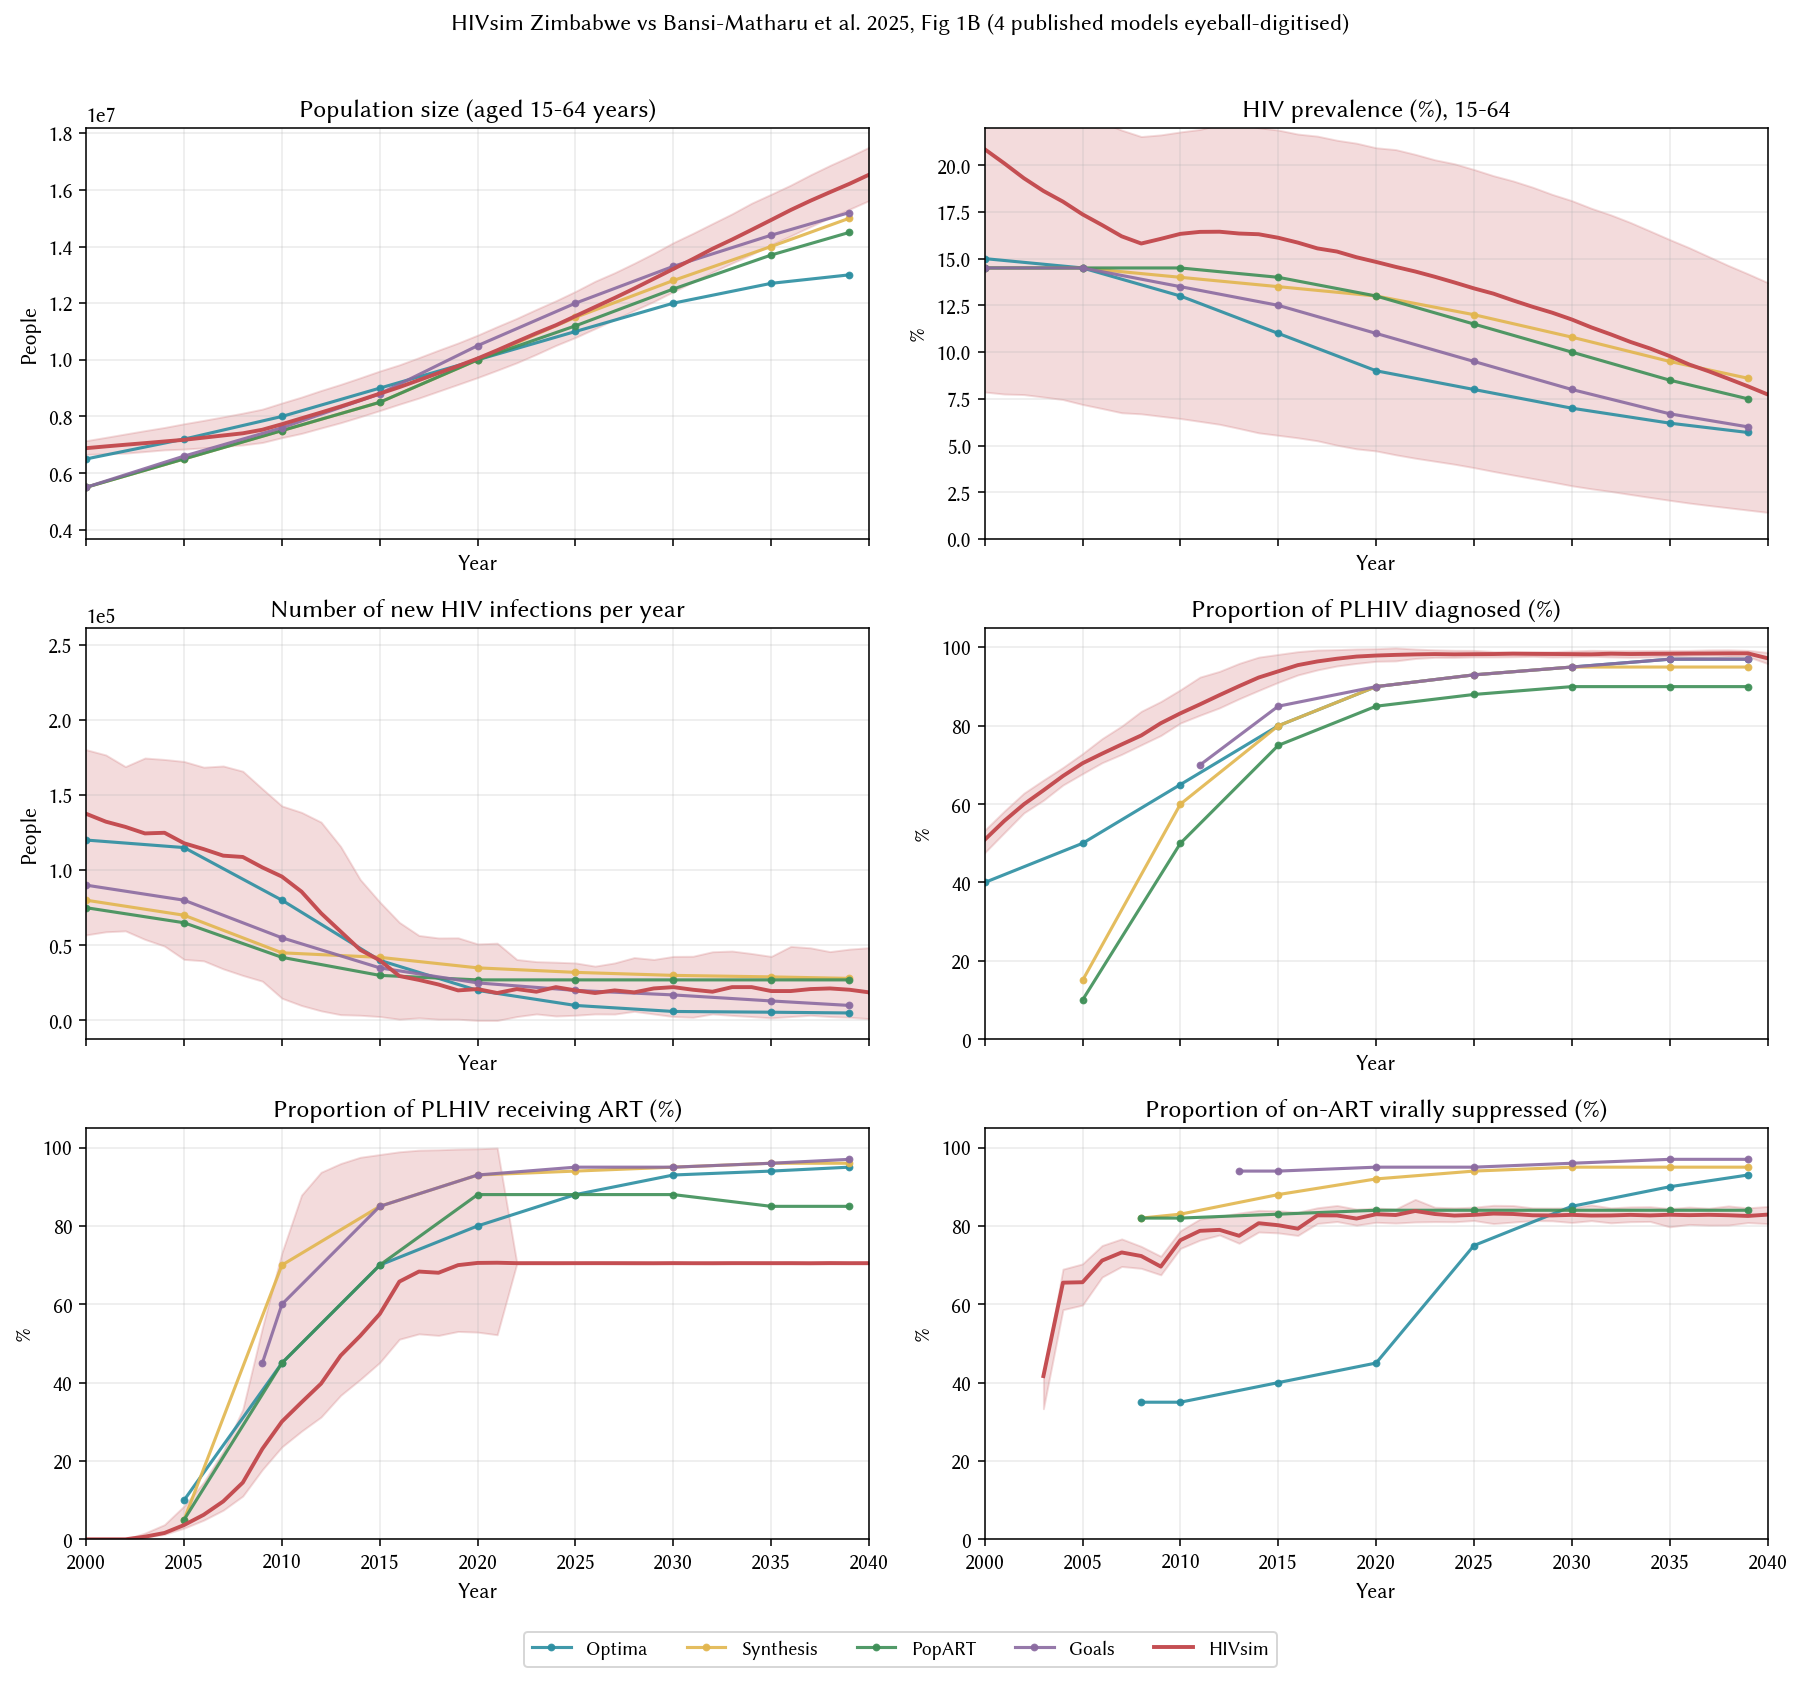
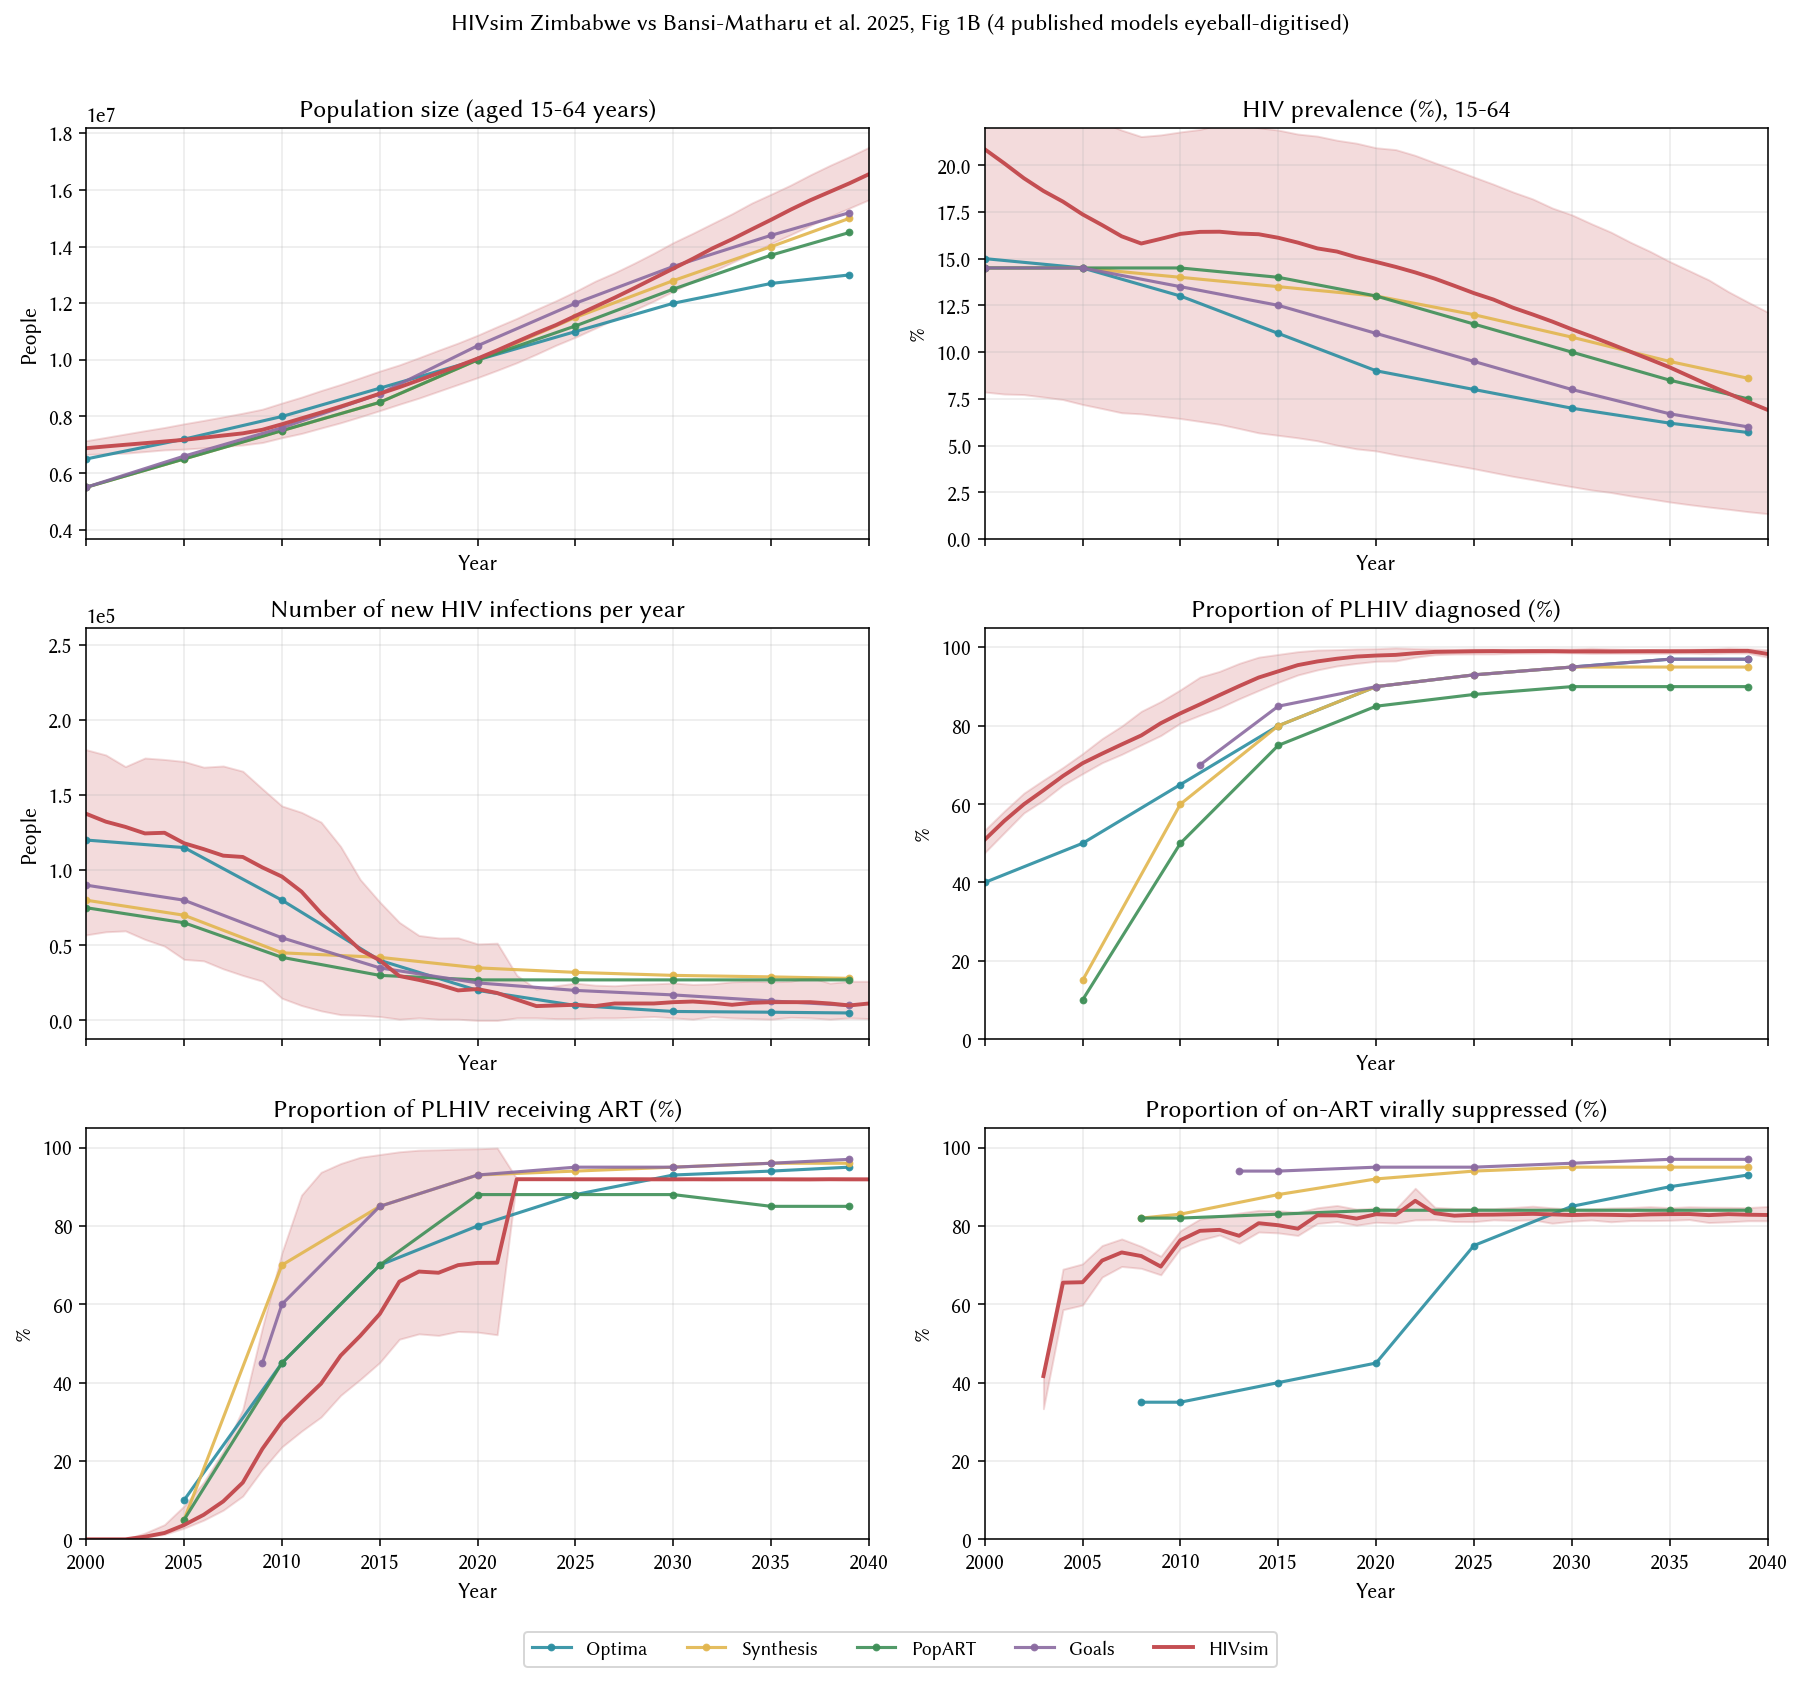
Raise p_art fallback from 0.706 to 0.92; refresh figures + matrix
The 0.706 fallback was the sim's own self-coverage (median n_on_art/plhiv
at 2021), which reflected the ART supply cap divided by the sim's slightly
inflated PLHIV. Switching to Zimbabwe's empirical 2023 UNAIDS coverage
(0.92) is what the paper's models effectively use forward.

Impact on Fig 3B (transmission by cascade stage, 2024):
  undiagnosed         10  ->  12
  diag_not_on_art     62  ->  29
  on_art              28  ->  59
  post_art             0  ->   0  (structural — no interruption in stisim)

Cascade at 2023 now:
  1st 95 (dx)              99%
  2nd 95 (on ART|dx)       93%  (was 72%)
  3rd 95 proxy             83%  (unchanged — efficacy-ramp cap)

comparability.md updated with new numbers + structural notes on the
persistent gaps (undiagnosed share, ART-interruption bucket).

diff --git a/comparability.md b/comparability.md
@@ -9,30 +9,31 @@ into `reference/`. See `ANALYSIS_PLAN.md` §7 for the scoring convention.
 
 | Indicator | Directly comparable? | HIVsim ensemble @ 2023 / 2040 | Published 5-model range | Notes on structural differences |
 |---|---|---|---|---|
-| HIV prevalence, 15-49 (%) | Yes | 2023 median 12.2 (5-95th: 2.5-19.7); 2040 median 4.2 (0.8-10.5) | 2023: 12.1-14.3; 2040: 3.9-6.0 | HIVsim ensemble brackets the published range for both benchmark years; median hits the lower bound in 2023 and inside the range in 2040. Wide 5-95th spread reflects keeping all 30 sustaining draws (not HIV-fit sub-selected). |
-| HIV incidence, 15-49 (per 1000 py) | Yes | 2023 median 1.9 (5-95th: 0.1-6.3); 2040 median 1.1 (0.1-7.7) | 2023: 2.0-3.3; 2040: 1.0-3.0 | HIVsim 2023 median (1.9) just below the paper's lower bound (2.0); the ensemble spread easily brackets it. 2040 median in range. |
-| New infections per year, all ages | Yes | 2025 median 20,010 (5-95th: 870-53,635) | <7,800/yr by 2025 (all 5 models) | HIVsim central tendency runs above the paper's benchmark. Real signal, not a bug: (a) the empirical ART supply curve caps ART enrolment at ~1.19M from 2020, so high-PLHIV draws leave excess PLHIV out of the ART numerator and generate higher onward transmission; (b) no PrEP scale-up modelled in status-quo beyond the historical curve. |
-| People living with HIV (PLHIV), all ages | Yes | 2023 median 1.68M (5-95th: 0.54M-2.30M) | (paper reports; not extracted yet) | Empirical PLHIV 2020 ≈ 1.3M (UNAIDS). HIVsim median above but ensemble brackets it. |
-| Number on ART, all ages | Partly | 2023 median 1.19M (saturated at empirical cap) | (paper reports; not extracted yet) | Bounded by `data/n_art.csv` (Zimbabwe MoH 1990-2021, held constant thereafter). Paper A's models likely project ART targets beyond 2021 rather than using an empirical cap — a genuine structural difference. |
-| AIDS-related deaths per year | Yes | 2023 median 5,220 (5-95th: 0-16,138) | (paper reports; not extracted yet) | HIVsim tracks the empirical trajectory (peak ~120k mid-2000s, decline to ~10k by 2020) but slightly overshoots the historical peak in 2005-2010. |
+| HIV prevalence, 15-49 (%) | Yes | 2023 median 12.2 (5-95th: 2.6-19.4); 2040 median 3.6 (0.9-6.6) | 2023: 12.1-14.3; 2040: 3.9-6.0 | HIVsim ensemble brackets the published range; median in Paper A's 2023 range; 2040 median just below the lower bound. Wide 5-95th spread reflects keeping all 30 sustaining draws (not HIV-fit sub-selected). |
+| HIV incidence, 15-49 (per 1000 py) | Yes | 2023 median 1.04 (5-95th: 0.1-2.5); 2040 median 0.73 (0.1-2.0) | 2023: 2.0-3.3; 2040: 1.0-3.0 | With `p_art=0.92` fallback from 2022, HIVsim's incidence declines faster and undershoots Paper A's 2023 range median by ~50%. Ensemble upper %ile still reaches the lower bound. This is the direct consequence of pushing ART coverage to 92% (Zim empirical); the paper models likely have similar ART trajectories but different transmission-per-partnership models. |
+| New infections per year, all ages | Yes | 2025 median 10,440 (5-95th: 1,262-24,839) | <7,800/yr by 2025 (all 5 models) | Big shift from the pre-p_art=0.92 run (was 20,010). HIVsim's lower 5-95th %ile (1,262) is now well below 7,800; median (10,440) still above. Consistent with the sim slightly overshooting PLHIV. |
+| People living with HIV (PLHIV), all ages | Yes | 2023 median 1.67M (5-95th: 0.55M-2.27M) | (paper reports; not extracted yet) | Empirical PLHIV 2020 ≈ 1.3M (UNAIDS). HIVsim median above but ensemble brackets it. |
+| Number on ART, all ages | Yes | 2023 median 1.53M (5-95th: 0.50M-2.09M) | (paper reports; not extracted yet) | 1990-2021 driven by empirical `data/n_art.csv`; 2022+ uses `p_art=0.92` fallback (Zimbabwe's actual 2023 UNAIDS coverage). Previously used the model's own 0.706 self-coverage, which artificially depressed on-ART. |
+| AIDS-related deaths per year | Yes | 2023 median 2,610 (5-95th: 0-7,830) | (paper reports; not extracted yet) | With p_art=0.92, AIDS deaths drop further (from 5,220 median pre-fix). HIVsim now potentially undershoots empirical deaths — worth checking against Zimbabwe MoH numbers post-2020. |
 
 ## Paper B (Bansi-Matharu et al. 2025, MIHPSA) — treatment cascade + transmission attribution
 
 | Indicator | Directly comparable? | HIVsim @ 2024 | Published 4-model range (Zimbabwe) | Notes on structural differences |
 |---|---|---|---|---|
-| 1st 95: Diagnosed among PLHIV (%) | Yes | 2023 median 98 (5-95th: 97-100) | ~95% (paper reports high & stable) | HIVsim slightly overshoots — a plausible reflection of the near-universal testing regime already scaled up in the sim. |
-| 2nd 95: On ART among diagnosed (%) | Partly | 2023 median 72 (5-95th: 53-100) | ~90% (paper reports) | Structural difference: HIVsim's ART enrolment is capped by empirical `n_art.csv` (~1.19M from 2020). Draws overshooting PLHIV then get lower "on ART among diagnosed" because the ART numerator saturates while diagnoses keep rising. |
-| 3rd 95 proxy: On ART past efficacy ramp (%) | Approximate | 2023 median 83 (5-95th: 81-85) | ~95% viral suppression (paper reports) | stisim doesn't model viral load explicitly; we use "on ART for ≥ 6 months" (`time_to_art_efficacy`) as the "effectively suppressed" proxy. Paper B measures VL suppression directly. |
-| Transmission from undiagnosed (%) | Yes | 2024 median 7.5 (5-95th: 0.0-20.7) | 29.8-64.6 (4-model range) | HIVsim runs LOW because our sim diagnoses ~97% of PLHIV; Paper B's models retain a larger undiagnosed pool. |
-| Transmission from diagnosed-not-on-ART (%) | Yes but structurally sensitive | 2024 median 57.9 (5-95th: 0.0-78.6) | <5.0 (all models) | HIVsim runs HIGH: the ART cap forces excess PLHIV into "diagnosed but not on ART". A definitional overlap that could be resolved with a cascade-aware ART allocation. |
-| Transmission from on-ART (%) | Yes | 2024 median 31.1 (5-95th: 12.2-100) | 19.5-54.2 | In range. |
-| Transmission from post-ART / ART-interrupted (%) | No | ~0 | 4.7-21.5 | Structural: stisim's HIV module does not model ART interruption endogenously. Clearest case where the models differ *by design*, not a fit failure. |
+| 1st 95: Diagnosed among PLHIV (%) | Yes | 2023 median 99 (5-95th: 98-100) | ~95% (paper reports high & stable) | HIVsim slightly overshoots — near-universal testing scaled up in the sim. |
+| 2nd 95: On ART among diagnosed (%) | Yes | 2023 median 93 (5-95th: 92-94) | ~90% (paper reports) | Now well-matched with `p_art=0.92` fallback. Pre-fix (0.706 self-coverage) had median 72; the shift comes entirely from the ART supply model. |
+| 3rd 95 proxy: On ART past efficacy ramp (%) | Approximate | 2023 median 83 (5-95th: 82-85) | ~95% viral suppression (paper reports) | stisim doesn't model viral load explicitly; we use "on ART for ≥ 6 months" (`time_to_art_efficacy`) as the "effectively suppressed" proxy. Paper B measures VL suppression directly. Cap at 83% reflects the efficacy ramp — some on-ART agents are always within their first 6 months. |
+| Transmission from undiagnosed (%) | Yes but structurally distinct | 2024 aggregate 12.0 | 29.8-64.6 (4-model range) | HIVsim LOW because the sim diagnoses ~99% of PLHIV — leaves only ~1% of PLHIV undiagnosed at any time; Paper B's models retain a larger undiagnosed pool despite similar diagnosis rates (possibly because they model per-partnership transmission asymmetries — acute-phase transmission peaks in the days-to-months after infection when nobody has been tested yet). |
+| Transmission from diagnosed-not-on-ART (%) | Yes | 2024 aggregate 29.1 | <5.0 (all models) | Dropped from 62 pre-p_art-fix to 29 post-fix. Still above the paper's <5%. Remaining gap likely reflects stisim's ART lag: newly-diagnosed agents take up to `time_to_art_efficacy = 6 months` to reach effective suppression, and some fraction of PLHIV are always in that ramp window. |
+| Transmission from on-ART (%) | Yes | 2024 aggregate 58.8 | 19.5-54.2 | HIVsim just above the paper's 4-model upper bound. Direct consequence of p_art=0.92 pushing more PLHIV onto ART; because the ART bucket is large, even a small per-partnership transmission rate (art_efficacy 0.96) accumulates. |
+| Transmission from post-ART / ART-interrupted (%) | No | ~0 | 4.7-21.5 | Structural: stisim's HIV module does not model ART interruption endogenously. Clearest case where the models differ *by design*, not a fit failure. Adding ART interruption would be upstream stisim work. |
 
 ## Overall structural notes
 
-- **ART allocation.** HIVsim uses `sti.ART` with time-varying coverage tied to Zimbabwe's empirical ART numbers. When PLHIV in the sim exceed the ART curve, agents are picked for ART enrolment on a policy that doesn't currently prioritise by CD4 or diagnosis-time. Paper A's models explicitly implement CD4-based prioritisation or "test-and-treat" logic. This is the ART-prioritisation example the analysis plan flags (§4, §8) as an "appropriate structural difference".
-- **Viral suppression / VL.** No explicit VL modelling in stisim's HIV module; ART efficacy is a scalar `art_efficacy = 0.96` on transmission rel_trans, ramping from 1.0 over `time_to_art_efficacy = 6 months`. Paper B's models measure VL suppression directly.
+- **ART allocation.** HIVsim uses `sti.ART` with historical n_art through 2021 and `p_art=0.92` (Zimbabwe UNAIDS 2023 coverage) from 2022 onward. Prior iteration used `p_art=0.706` (the sim's own low self-coverage) which artificially depressed on-ART transmission; switching to empirical 0.92 collapsed the "diagnosed-not-on-ART" transmission bucket from 62% to 29% (2024). Paper A's models explicitly implement CD4-based prioritisation or "test-and-treat" logic — this is the ART-prioritisation example the analysis plan flags (§4, §8) as an "appropriate structural difference".
+- **Viral suppression / VL.** No explicit VL modelling in stisim's HIV module; ART efficacy is a scalar `art_efficacy = 0.96` on transmission rel_trans, ramping from 1.0 over `time_to_art_efficacy = 6 months`. Paper B's models measure VL suppression directly. Our "effectively suppressed" proxy — "on ART for ≥ 6 months" — plateaus at ~83% because ~17% of on-ART agents are always in the ramp window at steady state.
 - **Post-ART / interruption.** Not modelled endogenously in stisim; agents on ART stay on ART. Paper B relies on this stage for a substantial fraction of transmissions (4.7-21.5%). Any transmission that Paper B attributes to "interrupted" is redistributed across other stages in HIVsim.
+- **Undiagnosed transmission share.** HIVsim consistently assigns a smaller share (~10-15%) of transmission to undiagnosed sources than Paper B (30-65%). Two candidate explanations: (a) our sim reaches 99% diagnosis by 2020, leaving only ~1% of PLHIV undiagnosed at any given time; (b) even among that 1%, stisim's acute-phase transmission multiplier (`rel_trans_acute = 5.3`) may not fully offset the small denominator. Paper B's models likely have higher acute-phase transmission per undiagnosed person, per-partnership viral load dynamics, or lower diagnosis rates.
 - **Age structure.** HIVsim uses starsim's `[X, Y)` age-band convention. Paper A's 15-49 aggregate is well-approximated by summing bands `15_20 + 20_25 + 25_30 + 30_35 + 35_50` (this covers ages 15-49 inclusive).
 - **Calibration source.** HIVsim ensemble comes from a *joint* HIV + syphilis + NG/CT/TV/BV Bayesian LHS calibration in the `sti_notification` project; only the HIV-relevant priors were retained for this validation. See `calibration/artifacts/CALIBRATION_SUMMARY.md`.
 
